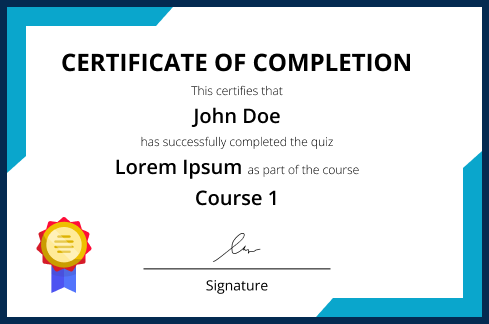
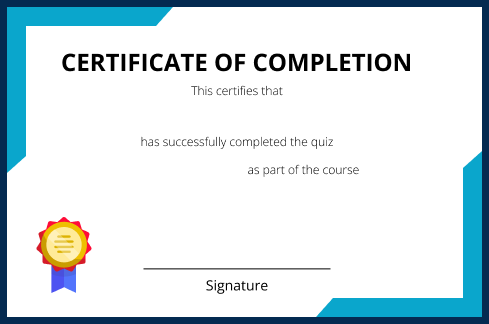
added dynamic certification preview

diff --git a/pages/CoursePage/UserCoursePage/CertificationPage.vue b/pages/CoursePage/UserCoursePage/CertificationPage.vue
@@ -34,6 +34,8 @@
         />
       </div>
     </div>
+
+    <!-- Certificate Preview with Overlay Text -->
     <div
       class="col-6"
       style="
@@ -51,14 +53,66 @@
       >
         <div class="text-h5 text-white text-start">Preview:</div>
         <div
-          style="position: relative; display: inline-block; text-align: center"
+          style="
+            position: relative;
+            display: inline-block;
+            text-align: center;
+            width: 100%;
+            max-width: 500px;
+          "
         >
-          <img
-            :src="certificate"
-            alt="certificate-image"
-            style="width: 100%; max-width: 500px"
-          />
+          <img :src="certificate" alt="certificate-image" style="width: 100%" />
+
+          <div
+            style="
+              position: absolute;
+              top: 35%;
+              left: 48%;
+              transform: translate(-50%, -50%);
+              font-size: 1.5em;
+              font-weight: 600;
+            "
+          >
+            {{ userName }}
+          </div>
+          <div
+            style="
+              position: absolute;
+              top: 51%;
+              left: 43%;
+              transform: translate(-50%, -50%);
+              font-size: 1.5em;
+              font-weight: 600;
+            "
+          >
+            {{ quizName }}
+          </div>
+          <div
+            style="
+              position: absolute;
+              top: 60%;
+              left: 48%;
+              transform: translate(-50%, -50%);
+              font-size: 1.5em;
+              font-weight: 600;
+            "
+          >
+            {{ courseName }}
+          </div>
+          <!-- <div
+            style="
+              position: absolute;
+              bottom: 10%;
+              left: 50%;
+              transform: translate(-50%, 0);
+              font-size: 1.1em;
+              font-style: italic;
+            "
+          >
+            Signature
+          </div> -->
         </div>
+
         <q-btn
           label="Download Certificate"
           no-caps

diff --git a/pages/CoursePage/AdminCoursePage/AddCourse.vue b/pages/CoursePage/AdminCoursePage/AddCourse.vue
@@ -102,7 +102,7 @@
         />
       </div> -->
       <q-btn
-        @click="showNotif"
+        @click="handleSave"
         label="Save"
         no-caps
         flat
@@ -114,22 +114,17 @@
 
 <script setup>
 import PageBreadcrumbs from "src/components/PageBreadcrumbs.vue";
-
+import { useNotification } from "../Composables/UseNotification";
 import { ref } from "vue";
-import { useQuasar } from "quasar";
 
-const $q = useQuasar();
+const { showNotif } = useNotification();
 
-function showNotif() {
-  $q.notify({
-    message: "Success. The record has been added.",
-    color: "green",
-    position: "top-right",
-    actions: [{ icon: "close", color: "white", round: true }],
-  });
+function handleSave() {
+  showNotif(
+    "<p class='q-mb-none text-green'><span class='text-weight-bold'>Success</span>. The record has been added.</p>",
+    "green-2"
+  );
 }
-
-let isSuccessModalOpen = ref(false);
 
 let options = ref(["Draft", "Published"]);
 let form = ref({
@@ -138,3 +133,10 @@ let form = ref({
   input_file: null,
 });
 </script>
+
+<!-- <style>
+.bordered-notification {
+  border: 1px solid green;
+  border-radius: 4px;
+}
+</style> -->

diff --git a/pages/CoursePage/AdminCoursePage/AddQuestion.vue b/pages/CoursePage/AdminCoursePage/AddQuestion.vue
@@ -106,7 +106,7 @@
 
       <!-- Button -->
       <q-btn
-        @click="showNotif"
+        @click="handleSave"
         label="Save"
         no-caps
         flat
@@ -119,22 +119,19 @@
 <script setup>
 import PageBreadcrumbs from "src/components/PageBreadcrumbs.vue";
 import { computed } from "vue";
-import { ref } from "vue";
 import { useRoute } from "vue-router";
+import { useNotification } from "../Composables/UseNotification";
+import { ref } from "vue";
 
-import { useQuasar } from "quasar";
+const { showNotif } = useNotification();
 
-const $q = useQuasar();
+function handleSave() {
+  showNotif(
+    "<p class='q-mb-none text-green'><span class='text-weight-bold'>Success</span>. The record has been added.</p>",
+    "green-2"
+  );
+}
 const route = useRoute();
-
-const showNotif = () => {
-  $q.notify({
-    message: "Success. The record has been saved.",
-    color: "green",
-    position: "top-right",
-    actions: [{ icon: "close", color: "white", rounded: true }],
-  });
-};
 
 let form = ref({
   question: "",

diff --git a/pages/CoursePage/AdminCoursePage/EditQuiz.vue b/pages/CoursePage/AdminCoursePage/EditQuiz.vue
@@ -124,7 +124,7 @@
 
       <!-- Button -->
       <q-btn
-        @click="showNotif"
+        @click="handleSave"
         label="Save"
         no-caps
         flat
@@ -137,19 +137,17 @@
 <script setup>
 import PageBreadcrumbs from "src/components/PageBreadcrumbs.vue";
 import TablePage from "../../../components/TablePage.vue";
-import { useQuasar } from "quasar";
+import { useNotification } from "../Composables/UseNotification";
 import { ref } from "vue";
 
-const $q = useQuasar();
+const { showNotif } = useNotification();
 
-const showNotif = () => {
-  $q.notify({
-    message: "Success. The record has been updated.",
-    color: "green",
-    position: "top-right",
-    actions: [{ icon: "close", color: "white", rounded: true }],
-  });
-};
+function handleSave() {
+  showNotif(
+    "<p class='q-mb-none text-green'><span class='text-weight-bold'>Success</span>. The record has been updated.</p>",
+    "green-2"
+  );
+}
 
 let form = ref({
   quiz_name: "Quiz 1",

diff --git a/pages/CoursePage/AdminCoursePage/AddQuiz.vue b/pages/CoursePage/AdminCoursePage/AddQuiz.vue
@@ -121,7 +121,7 @@
 
       <!-- Button -->
       <q-btn
-        @click="showNotif"
+        @click="handleSave"
         label="Save"
         no-caps
         flat
@@ -134,19 +134,17 @@
 <script setup>
 import PageBreadcrumbs from "src/components/PageBreadcrumbs.vue";
 import TablePage from "../../../components/TablePage.vue";
-import { useQuasar } from "quasar";
+import { useNotification } from "../Composables/UseNotification";
 import { ref } from "vue";
 
-const $q = useQuasar();
+const { showNotif } = useNotification();
 
-const showNotif = () => {
-  $q.notify({
-    message: "Success. The record has been saved.",
-    color: "green",
-    position: "top-right",
-    actions: [{ icon: "close", color: "white", rounded: true }],
-  });
-};
+function handleSave() {
+  showNotif(
+    "<p class='q-mb-none text-green'><span class='text-weight-bold'>Success</span>. The record has been added.</p>",
+    "green-2"
+  );
+}
 
 let form = ref({
   input_text: null,

diff --git a/pages/CoursePage/AdminCoursePage/EditCourse.vue b/pages/CoursePage/AdminCoursePage/EditCourse.vue
@@ -102,7 +102,7 @@
         />
       </div> -->
       <q-btn
-        @click="showNotif"
+        @click="handleSave"
         label="Save"
         no-caps
         flat
@@ -114,19 +114,17 @@
 
 <script setup>
 import PageBreadcrumbs from "src/components/PageBreadcrumbs.vue";
-import { useQuasar } from "quasar";
+import { useNotification } from "../Composables/UseNotification";
 import { ref } from "vue";
 
-const $q = useQuasar();
+const { showNotif } = useNotification();
 
-const showNotif = () => {
-  $q.notify({
-    message: "Success. The record has been updated.",
-    position: "top-right",
-    color: "green",
-    actions: [{ icon: "close", color: "white", round: true }],
-  });
-};
+function handleSave() {
+  showNotif(
+    "<p class='q-mb-none text-green'><span class='text-weight-bold'>Success</span>. The record has been updated.</p>",
+    "green-2"
+  );
+}
 
 let options = ref(["Draft", "Published"]);
 let form = ref({

diff --git a/pages/CoursePage/AdminCoursePage/EditQuestion.vue b/pages/CoursePage/AdminCoursePage/EditQuestion.vue
@@ -135,7 +135,7 @@
 
       <!-- Button -->
       <q-btn
-        @click="showNotif"
+        @click="handleSave"
         label="Save"
         no-caps
         flat
@@ -147,21 +147,17 @@
 
 <script setup>
 import PageBreadcrumbs from "src/components/PageBreadcrumbs.vue";
-
+import { useNotification } from "../Composables/UseNotification";
 import { ref } from "vue";
 
-import { useQuasar } from "quasar";
+const { showNotif } = useNotification();
 
-const $q = useQuasar();
-
-const showNotif = () => {
-  $q.notify({
-    message: "Success. The record has been updated.",
-    color: "green",
-    position: "top-right",
-    actions: [{ icon: "close", color: "white", rounded: true }],
-  });
-};
+function handleSave() {
+  showNotif(
+    "<p class='q-mb-none text-green'><span class='text-weight-bold'>Success</span>. The record has been updated.</p>",
+    "green-2"
+  );
+}
 
 let form = ref({
   question: "Question 1",

diff --git a/pages/CoursePage/Composables/UseNotification.js b/pages/CoursePage/Composables/UseNotification.js
@@ -1,0 +1,21 @@
+import { useQuasar } from "quasar";
+
+export function useNotification() {
+  const $q = useQuasar();
+
+  function showNotif(
+    message = "<p class='q-mb-none text-green'><span class='text-weight-bold'>Success</span>. The record has been added.</p>",
+    color = "green-2"
+  ) {
+    $q.notify({
+      message,
+      color,
+      position: "top-right",
+      textColor: "green",
+      actions: [{ icon: "close", color: "green", round: true }],
+      html: true,
+    });
+  }
+
+  return { showNotif };
+}
